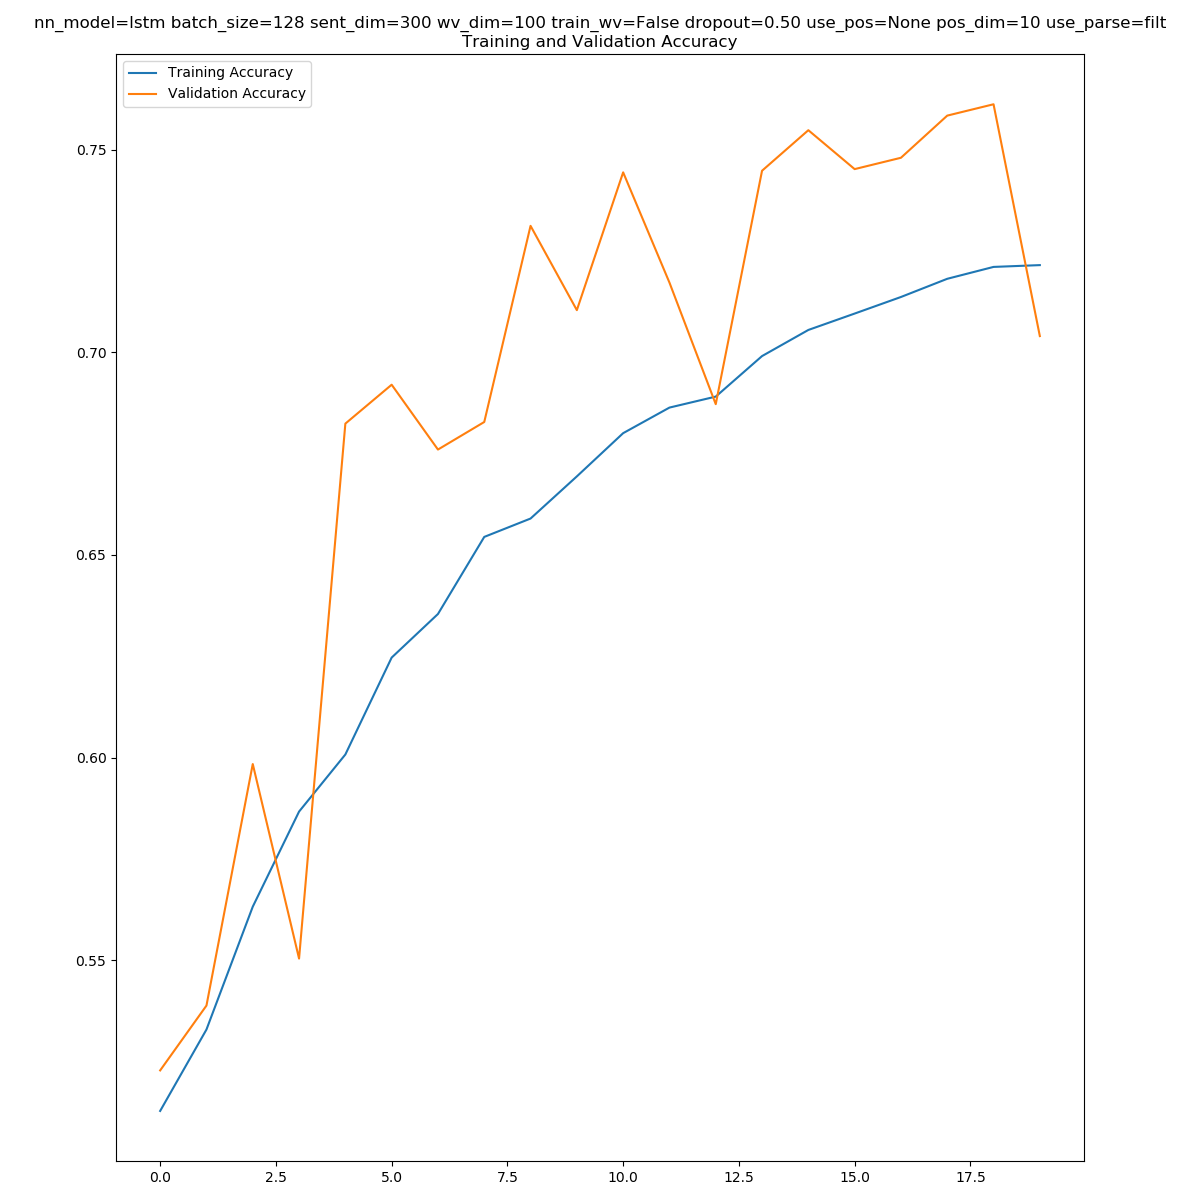
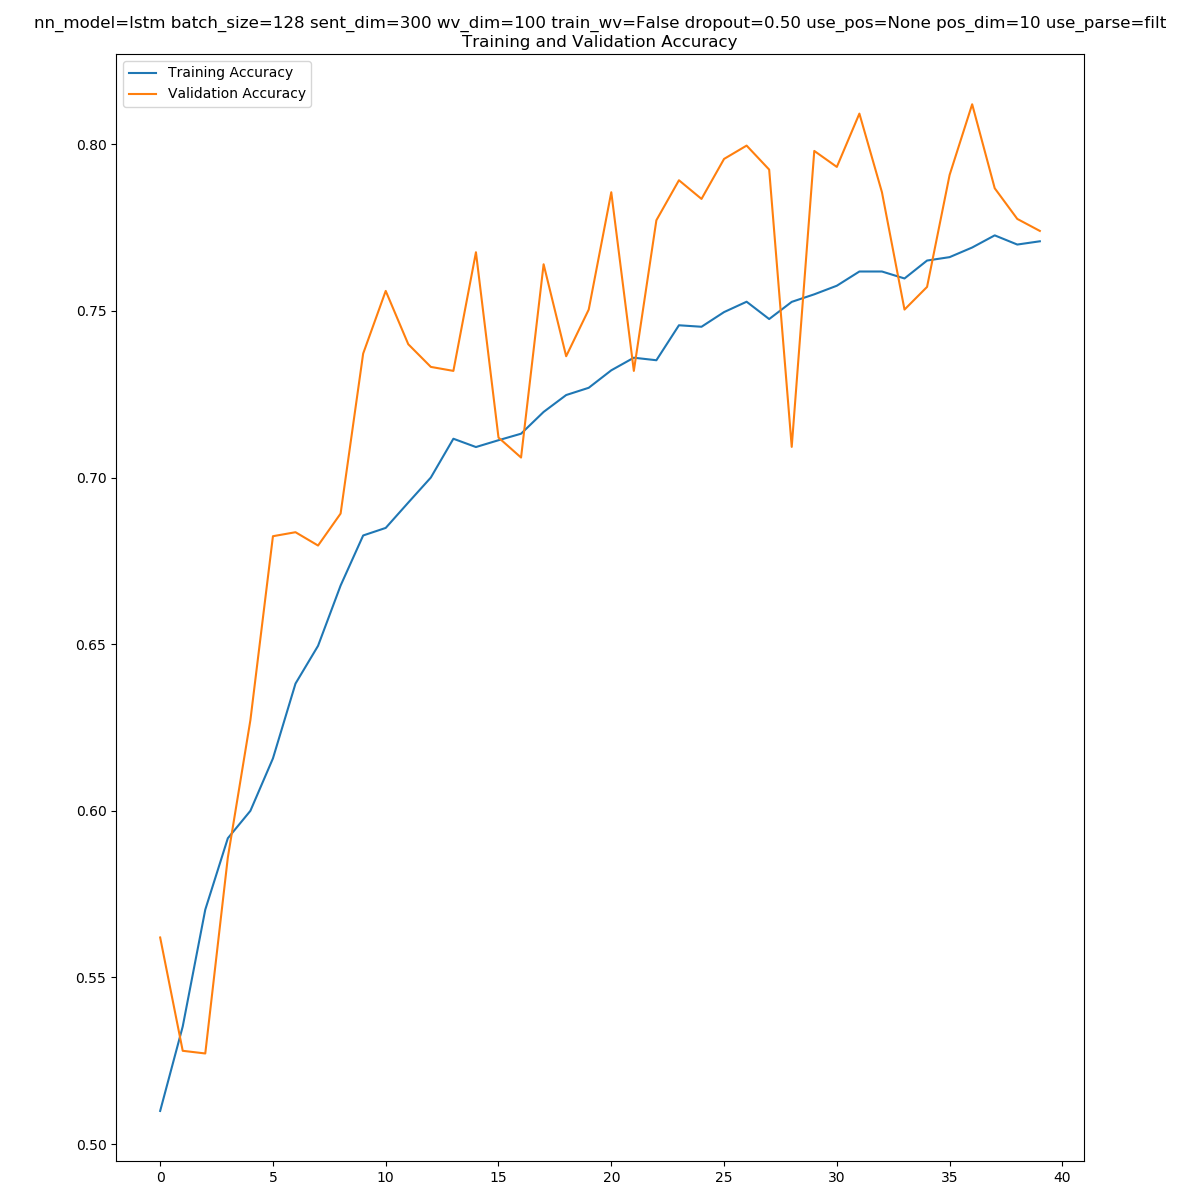
Did more epochs for lstm with parse filter feature input

diff --git a/main.py b/main.py
@@ -133,11 +133,11 @@ if __name__ == '__main__':
     epochs = 20
     pos_dim = 10
     batch_size = 128
-    sent_dim = [400]
+    sent_dim = [300]
     nn_models = ['lstm', 'cnn', 'ff']
     train_wv = [False, True]
     use_pos = [None, 'embed', 'one_hot']
-    use_parse = [None]
+    use_parse = [None, 'filt']
 
     # Load data
     df_train_val, df_test = load_data('df_train.pkl', 'df_test.pkl')
@@ -151,7 +151,7 @@ if __name__ == '__main__':
 
     # Run all experiments
     experiment_wrapper = ExperimentWrapper()
-    exp_params = [ExperimentParameters(nn_model=nn, dropout=dropout, epochs=40 if uparse is not None and not train_wv else epochs, sent_dim=sd, pos_dim=pos_dim,
+    exp_params = [ExperimentParameters(nn_model=nn, dropout=dropout, epochs=epochs, sent_dim=sd, pos_dim=pos_dim,
                                        batch_size=batch_size, train_wv=wvt, use_pos=upos, use_parse=uparse)
                   for nn in nn_models for sd in sent_dim for wvt in train_wv for upos in use_pos for uparse in use_parse]
 
